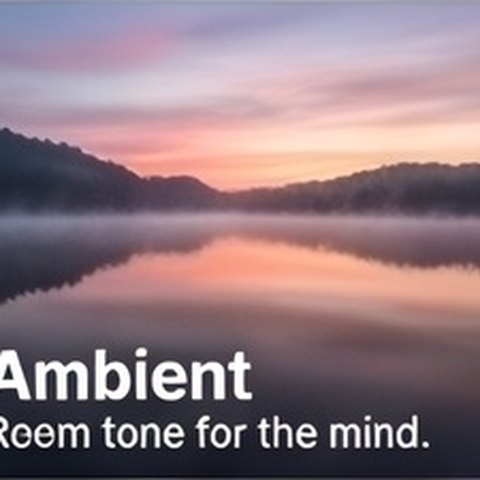
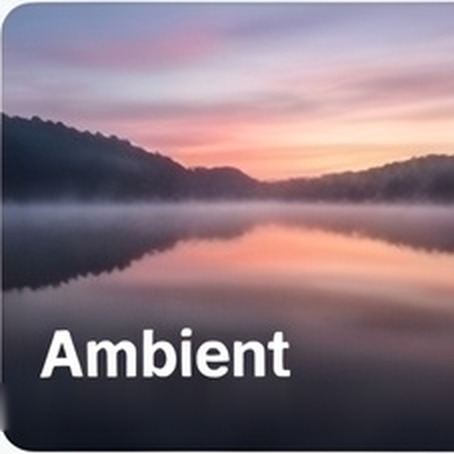
kitaak.com: Ambient hero card; demo: welcome popup redesign, Corporate Music Club points/cards/comments, demo disclaimer text, encrypted identity, Salt Rooms cover
Claude-Session: https://claude.ai/code/session_01AxvuW8LmUui2tz4zV2zd9z

diff --git a/kitaak-site/demo/demo.js b/kitaak-site/demo/demo.js
@@ -9,6 +9,7 @@
   const icon = (n, size, stroke) => {
     const sz = size || 22;
     if (n === "play") return '<svg width="' + sz + '" height="' + sz + '" viewBox="0 0 24 24" fill="currentColor" stroke="none"><path d="M8 5.5v13a1 1 0 0 0 1.5.86l10.5-6.5a1 1 0 0 0 0-1.72L9.5 4.64A1 1 0 0 0 8 5.5z"/></svg>';
+    if (n === "thumb") return '<svg width="' + sz + '" height="' + sz + '" viewBox="0 0 24 24" fill="currentColor" stroke="none"><path d="M2 10h4v11H2zM22 11c0-1.1-.9-2-2-2h-5.3l.9-4.3v-.3c0-.4-.2-.8-.4-1.1L14 2 7.6 8.6c-.4.4-.6.9-.6 1.4V19c0 1.1.9 2 2 2h8c.8 0 1.5-.5 1.8-1.2l3-7.1c.1-.2.2-.5.2-.7z"/></svg>';
     if (n === "hangup") return '<svg width="' + sz + '" height="' + sz + '" viewBox="0 0 24 24" fill="currentColor" stroke="none"><path d="M12 9c-1.6 0-3.15.25-4.6.72v3.1c0 .39-.23.74-.56.9-.98.49-1.87 1.12-2.66 1.85-.18.18-.43.28-.7.28-.28 0-.53-.11-.71-.29L.29 13.08C.11 12.9 0 12.65 0 12.38c0-.28.11-.53.29-.71C3.34 8.78 7.46 7 12 7s8.66 1.78 11.71 4.67c.18.18.29.43.29.71 0 .27-.11.52-.29.7l-2.48 2.48c-.18.18-.43.29-.71.29-.27 0-.52-.11-.7-.28-.79-.74-1.69-1.36-2.67-1.85-.33-.16-.56-.5-.56-.9v-3.1C15.15 9.25 13.6 9 12 9z"/></svg>';
     if (n === "pause") return '<svg width="' + sz + '" height="' + sz + '" viewBox="0 0 24 24" fill="currentColor" stroke="none"><rect x="6" y="5" width="4" height="14" rx="1"/><rect x="14" y="5" width="4" height="14" rx="1"/></svg>';
     return '<svg width="' + sz + '" height="' + sz + '" viewBox="0 0 24 24" fill="none" stroke="currentColor" stroke-width="' + (stroke || 2) + '" stroke-linecap="round" stroke-linejoin="round"><path d="' + (IC[n] || "") + '"/></svg>';
@@ -27,7 +28,7 @@
 
   // ---------------- state (in memory only) ----------------
   const S = {
-    me: Object.assign({}, D.me, { status: "online", statusLine: "", dob: "", state: "", country: D.company.country || "", pub: { dob: false, location: true } }),
+    me: Object.assign({}, D.me, { status: "online", statusLine: "", dob: "1991-04-12", state: "", country: D.company.country || "", pub: { dob: false, location: true } }),
     people: D.people.map((p) => Object.assign({}, p)),
     rooms: [], contacts: new Set(D.people.map((p) => p.id)), blocked: new Set(),
     unread: {}, typing: {}, started: 0, theme: "kitaakblue",
@@ -57,6 +58,10 @@
   S.downloads = new Set(TRACK_IDS.filter((_, i) => i % 31 === 7).slice(0, 3)); S.recent = TRACK_IDS.filter((_, i) => i % 17 === 5).slice(0, 6);
   S.myPlaylists = [{ id: "pl-mine-1", name: "Bergen Boarding Mix", description: "Made by you — for the inaugural flight.", cover: D.music.playlists[0].cover, trackIds: TRACK_IDS.filter((_, i) => i % 13 === 2).slice(0, 8) }];
   D.music.playlists.forEach((p, i) => { S.points[p.id] = 3 + ((i * 7) % 11); S.comments[p.id] = []; });
+  const POINTS_PER_MONTH = 11; S.pointsLeft = POINTS_PER_MONTH;
+  function encMask(v) { const s = String(v || ""); let x = 0; for (let i = 0; i < s.length; i++) x = (x * 31 + s.charCodeAt(i)) >>> 0; const A = "0123456789abcdef"; let o = ""; for (let i = 0; i < Math.max(12, Math.min(28, s.length + 6)); i++) { x = (x * 1103515245 + 12345) >>> 0; o += A[(x >>> 16) & 15]; if (i % 4 === 3) o += " "; } return o.trim(); }
+  let centerT = null;
+  function centerPop(msg) { const old = $(".center-pop"); if (old) old.remove(); const el = h('<div class="center-pop">' + icon("thumb", 22) + '<div>' + esc(msg) + "</div></div>"); document.body.appendChild(el); clearTimeout(centerT); centerT = setTimeout(() => { el.classList.add("out"); setTimeout(() => el.remove(), 350); }, 2200); }
   const favsOf = (pid) => { let x = 0; for (const c of pid) x = (x * 31 + c.charCodeAt(0)) % 9973; const n = 2 + (x % 4); return Array.from({ length: n }, (_, k) => tracksById[TRACK_IDS[(x * (k + 3) + k * 17) % TRACK_IDS.length]]); };
 
   // ---------------- UI helpers ----------------
@@ -385,17 +390,18 @@
     let body = "";
     if (tab === "playlists") {
       const ranked = D.music.playlists.slice().sort((a, b) => S.points[b.id] - S.points[a.id]);
-      body = '<div class="eyebrow" style="margin-bottom:8px">Shared playlists — ranked by points</div><div class="cm-grid">' + ranked.map((p, i) => { const owner = S.people[(i * 5) % S.people.length]; return '<div class="panel cm-card"><div style="display:flex;gap:12px"><img src="' + esc(cov(p.cover)) + '" style="width:84px;height:84px;border-radius:12px;object-fit:cover" alt=""><div style="min-width:0;flex:1"><div class="eyebrow">#' + (i + 1) + '</div><div class="sr-title" style="font-size:16px">' + esc(p.name) + '</div><div class="sr-desc">' + esc(p.description) + '</div><div class="muted" style="font-size:12px;margin-top:4px">shared by ' + esc(owner.name) + " · " + p.trackIds.length + " tracks</div></div></div><div style=\"display:flex;gap:8px;align-items:center;margin-top:10px;flex-wrap:wrap\"><button class=\"btn sm primary\" data-pt=\"" + esc(p.id) + '">' + icon("heart", 14) + ' Give a point</button><span class="chip">' + S.points[p.id] + ' points</span><button class="btn sm" data-open-pl="' + esc(p.id) + '">' + icon("play", 14) + ' Open</button><button class="btn sm ghost" data-cm="' + esc(p.id) + '">' + icon("chat", 14) + " Comment (" + (S.comments[p.id] || []).length + ")</button></div>" + ((S.comments[p.id] || []).length ? '<div style="margin-top:8px;font-size:13px">' + S.comments[p.id].map((x) => "<div><b>" + esc(x.who) + ":</b> " + esc(x.text) + "</div>").join("") + "</div>" : "") + "</div>"; }).join("") + "</div>";
+      body = '<div class="eyebrow" style="margin-bottom:8px">Shared playlists — ranked by points · <span id="ptLeft">' + S.pointsLeft + ' of ' + POINTS_PER_MONTH + ' points left this month</span></div><div class="cm-grid">' + ranked.map((p, i) => { const owner = S.people[(i * 5) % S.people.length]; const n = (S.comments[p.id] || []).length; return '<div class="panel cm-card"><div style="display:flex;gap:12px"><img src="' + esc(cov(p.cover)) + '" style="width:84px;height:84px;border-radius:12px;object-fit:cover" alt=""><div style="min-width:0;flex:1"><div class="eyebrow">#' + (i + 1) + '</div><div class="sr-title" style="font-size:16px">' + esc(p.name) + '</div><div class="sr-desc">' + esc(p.description) + '</div><div class="muted" style="font-size:12px;margin-top:4px">shared by ' + esc(owner.name) + " · " + p.trackIds.length + ' tracks</div></div></div><div class="cm-foot"><button class="btn sm" data-open-pl="' + esc(p.id) + '">' + icon("play", 14) + ' Open</button><button class="btn sm ghost" data-cm="' + esc(p.id) + '">' + icon("chat", 14) + " Comment (" + n + ')</button><button class="pt-pill" data-pt="' + esc(p.id) + '" title="Give a point"><span class="n">' + S.points[p.id] + "</span>" + icon("thumb", 15) + "</button></div></div>"; }).join("") + "</div>";
     } else if (tab === "music") {
       body = '<input class="input" id="cmq" placeholder="Search people, songs, artists, albums…" style="max-width:420px;margin-bottom:14px"><div class="cm-grid" id="cmPeople"></div>';
     } else {
       body = '<div class="stack" style="max-width:760px">' + D.announcements.map((a) => '<div class="panel"><div class="eyebrow">' + esc(nameOf(a.fromId)) + " · " + a.daysAgo + ' days ago</div><div class="sr-title" style="font-size:17px;margin:4px 0">' + esc(a.title) + '</div><div class="muted" style="font-size:14px">' + esc(a.body) + "</div></div>").join("") + '<div class="panel"><div class="sr-title">Write a post</div><textarea class="input" id="blogIn" rows="3" placeholder="Share news with the company…"></textarea><div style="margin-top:8px"><button class="btn sm primary" id="blogPost">Post</button></div></div></div>';
     }
-    main.innerHTML = '<div class="page-pad page-wide"><div class="eyebrow">' + esc(c.name) + '</div><h1 class="display" style="font-size:32px;margin:0 0 6px">Corporate Music</h1><p class="muted" style="margin:0">Share playlists, songs and albums with your colleagues, comment on each other\'s picks, and give points — the most-pointed playlists rise to the top.</p><div style="display:flex;gap:8px;flex-wrap:wrap;margin-top:8px"><span class="chip">' + PLAN_NAME + '</span><span class="chip">workplace music: Kitaak Music Library</span><a class="chip" href="#/company">' + icon("briefcase", 13) + " Company profile</a></div>" + tabs + body + "</div>";
+    main.innerHTML = '<div class="page-pad page-wide"><div class="eyebrow">' + esc(c.name) + '</div><h1 class="display" style="font-size:32px;margin:0 0 6px">Corporate Music Club</h1><p class="muted" style="margin:0">Share playlists, songs and albums with your colleagues, comment on each other\'s picks, and give points — the most-pointed playlists rise to the top.</p><div style="display:flex;gap:8px;flex-wrap:wrap;margin-top:8px"><a class="chip" href="#/company">' + icon("briefcase", 13) + " Company profile</a></div>" + tabs + body + "</div>";
     $$("[data-tab]").forEach((b) => (b.onclick = () => (location.hash = "#/company-music/" + b.dataset.tab)));
-    $$("[data-pt]").forEach((b) => (b.onclick = () => { S.points[b.dataset.pt]++; toast("Point given (demo)"); renderCompanyMusic("playlists"); }));
+    $$("[data-pt]").forEach((b) => (b.onclick = () => { if (S.pointsLeft <= 0) { centerPop("0 out of " + POINTS_PER_MONTH + " points left for this month — your points renew next month."); return; } S.pointsLeft--; S.points[b.dataset.pt]++; renderCompanyMusic("playlists"); centerPop(S.pointsLeft + " out of " + POINTS_PER_MONTH + " points left for this month"); }));
     $$("[data-open-pl]").forEach((b) => (b.onclick = () => (location.hash = "#/music/playlist/" + encodeURIComponent(b.dataset.openPl))));
-    $$("[data-cm]").forEach((b) => (b.onclick = () => { const id = b.dataset.cm; const m = modal("Comment on " + playlist(id).name, '<textarea class="input" id="cmText" rows="3" placeholder="Say something nice about this playlist"></textarea>', [{ label: "Cancel" }, { label: "Post comment", cls: "primary", onClick: () => { const t = $("#cmText").value.trim(); if (!t) return false; (S.comments[id] = S.comments[id] || []).push({ who: S.me.name, text: t }); renderCompanyMusic("playlists"); } }]); }));
+    $$("[data-cm]").forEach((b) => (b.onclick = () => { const id = b.dataset.cm; const list = () => { const cs = S.comments[id] || []; return cs.length ? '<div class="cm-list">' + cs.map((x) => '<div class="cm-item"><b>' + esc(x.who) + "</b> " + esc(x.text) + "</div>").join("") + "</div>" : '<div class="muted" style="font-size:13px;margin-bottom:8px">No comments yet — be the first.</div>'; };
+      const m = modal("Comments · " + playlist(id).name, '<div id="cmList">' + list() + '</div><textarea class="input" id="cmText" rows="3" placeholder="Say something nice about this playlist"></textarea>', [{ label: "Close" }, { label: "Post comment", cls: "primary", onClick: () => { const t = $("#cmText").value.trim(); if (!t) return false; (S.comments[id] = S.comments[id] || []).push({ who: S.me.name, text: t }); $("#cmList").innerHTML = list(); $("#cmText").value = ""; const btn = $('[data-cm="' + id + '"]'); if (btn) btn.innerHTML = icon("chat", 14) + " Comment (" + S.comments[id].length + ")"; return false; } }], { sticky: true }); }));
     if (tab === "music") {
       const paint = () => { const q = ($("#cmq").value || "").trim().toLowerCase(); const ppl = [S.me].concat(S.people).map((p) => ({ p, favs: favsOf(p.id) })).filter((x) => !q || x.p.name.toLowerCase().includes(q) || x.favs.some((t) => (t.title + " " + artist(t.artistId).name + " " + (album(t.albumId) || {}).title).toLowerCase().includes(q))); $("#cmPeople").innerHTML = ppl.map((x) => '<div class="panel cm-card"><div style="display:flex;gap:10px;align-items:center">' + avatar(x.p, 30, true) + '<div style="min-width:0"><div class="sr-title">' + esc(x.p.name) + (x.p.id === "allison" ? " (you)" : "") + '</div><div class="sr-desc">' + x.favs.length + " shared song" + (x.favs.length === 1 ? "" : "s") + '</div></div></div><div class="track-list" style="margin-top:8px">' + x.favs.slice(0, 5).map((t, i) => trackRow(t, i)).join("") + "</div></div>").join("") || '<div class="muted" style="text-align:center;padding:24px">No matches for “' + esc(q) + '”.</div>'; $$("[data-tr]").forEach((b) => (b.onclick = (e) => { if (e.target.closest("[data-shelf]")) return; const t = tracksById[b.dataset.tr]; noMusicPopup(t.title + " — " + artist(t.artistId).name); })); $$("[data-shelf]").forEach((b) => (b.onclick = (e) => { e.stopPropagation(); const id = b.dataset.shelf; if (S.shelf.has(id)) S.shelf.delete(id); else S.shelf.add(id); b.innerHTML = icon(S.shelf.has(id) ? "check" : "shelf", 16); toast(S.shelf.has(id) ? "Saved to your shelf (demo)" : "Removed from your shelf"); })); };
       $("#cmq").oninput = paint; paint();
@@ -511,13 +517,14 @@
     main.innerHTML = '<div class="page-pad page-wide settings-compact" style="max-width:720px"><div class="eyebrow">Profile</div><div style="display:flex;gap:16px;align-items:center;margin:6px 0 18px">' + avatar(me, 72, true) + '<div style="flex:1;min-width:0"><input class="input display" id="nameIn" value="' + esc(me.name) + '" style="font-size:24px;font-weight:700;max-width:420px"><div class="muted mono" style="font-size:12px;margin-top:4px">' + esc(me.oNumber) + " · " + esc(D.company.name) + " · " + PLAN_NAME + (me.statusLine ? " · " + esc(me.statusLine) : "") + '</div></div><button class="btn sm" id="avatarBtn">Change photo</button></div>' +
       '<div class="panel appearance"><h3>Appearance</h3><div class="panel-sub">Pick a theme — Paper for day, Wax/Noir for night, plus Sepia and Mono.</div>' + themeRail() + "</div>" +
       '<div class="panel"><h3>Account</h3>' + row("Membership", PLAN_NAME, '<a class="btn sm" href="#/membership">Manage</a>') + row("Music Club", S.settings.musicClub ? "Active — streaming & linked catalog on." : "Paused — chat stays active, music features off.", '<button class="btn sm" id="mcBtn">' + (S.settings.musicClub ? "Deactivate" : "Reactivate") + "</button>") + row("Auto‑Update", S.settings.autoUpdate ? "App updates install automatically." : "Off — new versions arrive as a chat notification instead.", sw(S.settings.autoUpdate, 'data-s="autoUpdate"')) + row("Settings & Privacy", "Notifications, privacy, listening room", '<a class="btn sm" href="#/settings">Open</a>') + row("Cancel Membership", "End your paid membership. Stays active until the end of the current period.", '<button class="btn sm" id="cancelMem">Cancel</button>') + "</div>" +
-      '<div class="panel"><h3>Identity</h3><div class="panel-sub">Private unless you check <b>Public\'s</b> — then it shows on your profile popup.</div>' +
-        '<div class="setting-row" style="flex-wrap:wrap"><div class="sr-main" style="min-width:160px"><div class="sr-title">Date Of Birth</div><input class="input" type="date" id="dobIn" value="' + esc(me.dob) + '" style="max-width:200px;margin-top:4px"></div><label class="chip"><input type="checkbox" data-pub="dob" ' + (me.pub.dob ? "checked" : "") + "> Public</label></div>" +
-        '<div class="setting-row" style="flex-wrap:wrap"><div class="sr-main" style="min-width:160px"><div class="sr-title">Location</div><div class="sr-desc">City, state & country</div><div style="display:flex;gap:6px;flex-wrap:wrap;margin-top:4px"><input class="input" placeholder="City" data-f="city" value="' + esc(me.city || "") + '" style="max-width:160px"><input class="input" placeholder="State" data-f="state" value="' + esc(me.state || "") + '" style="max-width:120px"><input class="input" placeholder="Country" data-f="country" value="' + esc(me.country || "") + '" style="max-width:160px"></div></div><label class="chip"><input type="checkbox" data-pub="location" ' + (me.pub.location ? "checked" : "") + "> Public</label></div>" +
+      '<div class="panel" id="identityPanel"><h3>Identity ' + icon("lock", 15) + '</h3><div class="panel-sub">Private unless you check <b>Public\'s</b> — then it shows on your profile popup.</div><div class="enc-note">' + icon("lock", 14) + ' <b>Encrypted.</b> Your identity details are stored end-to-end encrypted and shown masked on this page. <button class="linkbtn" id="encToggle">' + (S.encReveal ? "Hide again" : "Reveal to edit") + "</button></div>" +
+        '<div class="setting-row" style="flex-wrap:wrap"><div class="sr-main" style="min-width:160px"><div class="sr-title">Date Of Birth</div>' + (S.encReveal ? '<input class="input" type="date" id="dobIn" value="' + esc(me.dob) + '" style="max-width:200px;margin-top:4px">' : '<div class="enc-val">' + encMask(me.dob) + '</div>') + '</div><label class="chip"><input type="checkbox" data-pub="dob" ' + (me.pub.dob ? "checked" : "") + "> Public</label></div>" +
+        '<div class="setting-row" style="flex-wrap:wrap"><div class="sr-main" style="min-width:160px"><div class="sr-title">Location</div><div class="sr-desc">City, state & country</div><div style="display:flex;gap:6px;flex-wrap:wrap;margin-top:4px">' + (S.encReveal ? '<input class="input" placeholder="City" data-f="city" value="' + esc(me.city || "") + '" style="max-width:160px"><input class="input" placeholder="State" data-f="state" value="' + esc(me.state || "") + '" style="max-width:120px"><input class="input" placeholder="Country" data-f="country" value="' + esc(me.country || "") + '" style="max-width:160px">' : '<div class="enc-val">' + encMask((me.city || "") + " " + (me.state || "") + " " + (me.country || "")) + '</div>') + '</div></div><label class="chip"><input type="checkbox" data-pub="location" ' + (me.pub.location ? "checked" : "") + "> Public</label></div>" +
         row("Title & department", "Shown on your profile popup and in the corporate directory.", '<span style="display:flex;gap:6px;flex-wrap:wrap"><input class="input" data-f="title" value="' + esc(me.title || "") + '" style="max-width:200px"><input class="input" data-f="department" value="' + esc(me.department || "") + '" style="max-width:180px"></span>', 'class="sr-wrap" style="flex-wrap:wrap"') +
-        row("Bio", "One line about you.", '<input class="input" data-f="bio" value="' + esc(me.bio || "") + '" style="max-width:360px">', 'class="sr-wrap" style="flex-wrap:wrap"') +
+        row("Bio", "One line about you.", S.encReveal ? '<input class="input" data-f="bio" value="' + esc(me.bio || "") + '" style="max-width:360px">' : '<div class="enc-val">' + encMask(me.bio || "") + "</div>", 'class="sr-wrap" style="flex-wrap:wrap"') +
         '<div style="margin-top:10px"><button class="btn primary sm" id="saveProf">Save profile</button></div></div>' +
       '<div class="panel"><h3 style="color:var(--danger)">Sensitive Functions</h3>' + row("Deactivate Account", "Temporarily hide your account. Log back in any time to reactivate — nothing is deleted.", '<button class="btn sm" id="deactBtn">Deactivate</button>') + row("Delete Profile", "Permanently delete your profile and data. This can't be undone.", '<button class="btn danger sm" id="delProfile2">Delete</button>') + "</div></div>";
+    $("#encToggle").onclick = () => { S.encReveal = !S.encReveal; renderProfile(); toast(S.encReveal ? "Identity details decrypted for this session (demo)" : "Identity details masked again"); };
     wireThemes(main);
     $$("[data-s]", main).forEach((el) => wireSwitch(el, (on) => { S.settings[el.dataset.s] = on; renderProfile(); }));
     $("#mcBtn").onclick = () => { S.settings.musicClub = !S.settings.musicClub; renderProfile(); toast(S.settings.musicClub ? "Music Club reactivated" : "Music Club paused — chat stays active"); };
@@ -537,13 +544,18 @@
 
   // ---------------- boot ----------------
   function welcome() {
-    const w = h('<div class="welcome"><div class="box"><div class="eyebrow">Kitaak · web demo</div><h1>Welcome, you are signed in as ' + esc(S.me.name) + '.</h1><p>This is a Demo corporate account at <b>' + esc(D.company.name) + '</b> with ' + S.people.length + ' colleagues. Everything works — chat, groups, contacts, the music library, settings, your profile — and <b>nothing you do is saved</b>.</p><ul><li>Test the demo account: send a message; check out the music library design, the corporate music page, the group profiles, the settings…</li><li>Music begins when you enter; the library presents the demo catalog and the paid user version shall carry songs based on membership coverage.</li><li>The Digital Demonstrator will call you a few seconds after you enter — answer to hear the music duck and readjust to normal volume after the message is over.</li></ul><button class="btn primary" id="enterBtn" style="width:100%;justify-content:center">Enter the Demo</button><div class="links"><button class="btn sm ghost" id="disclaimerBtn">Disclaimer &amp; Copy Rights</button></div><p class="disclaimer">By entering you accept the demo disclaimer: nothing is saved, the company and people are fictional, and the paid application may differ.</p></div></div>');
+    const card = (cls, ic, title, text) => '<div class="wcard"><span class="wic ' + cls + '">' + icon(ic, 22) + '</span><b>' + title + "</b><p>" + text + "</p></div>";
+    const w = h('<div class="welcome"><div class="box"><div class="wtop"><img class="wlogo" src="demo/icon.svg" alt=""><div class="eyebrow">Kitaak · web demo</div><h1>Welcome, you are signed in as ' + esc(S.me.name) + '.</h1><div class="wcorp">' + icon("briefcase", 15) + ' Corporate Account: ' + esc(D.company.name) + ' (' + S.people.length + ' Colleagues)</div><p>This is a corporate account, and <b>everything works</b>, from chat to settings, the music library, and your profile. Just remember: <b>nothing you do is saved</b>.</p><div class="wcards">' +
+      card("c1", "chat", "Test the demo", "Send a message, explore the full music library, view corporate pages, and adjust settings.") +
+      card("c2", "music", "Authentic experience", "Music starts upon entry. Visit the Music Library page and check out the design.") +
+      card("c3", "phone", "Live interaction", "Receive a simulated call shortly after entering. Hear our advanced music ducking and learn about Live Comm.") +
+      '</div><button class="btn primary" id="enterBtn" style="width:100%;justify-content:center">Enter the Demo</button><div class="links"><button class="linkbtn" id="disclaimerBtn">Disclaimer &amp; Copy Rights</button></div></div><div class="wfoot"><p class="disclaimer">By entering, you accept that this is a fictional demo; all data is temporary, and no information is saved. Company, people, and roles are for display purposes only. Final product may vary.</p><p class="copy">© ' + new Date().getFullYear() + ' Kitaak. All Rights Reserved.</p></div></div></div>');
     $("#disclaimerBtn", w).onclick = () => disclaimerModal();
     document.body.appendChild(w);
     $("#enterBtn", w).onclick = () => { w.remove(); Player.start(); S.started = NOW(); setTimeout(() => Call.incoming(), 7400); toast("Background music on — the Digital Demonstrator will call you in a few seconds."); };
   }
   function disclaimerModal() {
-    modal(window.KITAAK_DISCLAIMER_TITLE || "Disclaimer & Copy Rights", '<div class="disc-body">' + (window.KITAAK_DISCLAIMER_HTML || "") + "</div>", [{ label: "Close", cls: "primary" }], { sticky: false });
+    modal(window.KITAAK_DISCLAIMER_TITLE || "Disclaimer & Copy Rights", '<div class="disc-body">' + (window.KITAAK_DISCLAIMER_HTML_DEMO || window.KITAAK_DISCLAIMER_HTML || "") + "</div>", [{ label: "Close", cls: "primary" }], { sticky: false });
   }
   $("#resetBtn").onclick = () => location.reload();
   $("#bannerWho").textContent = "Signed in as " + S.me.name + " · " + D.company.name;

diff --git a/kitaak-site/index.html b/kitaak-site/index.html
@@ -1,6 +1,6 @@
 <!doctype html><html lang="en"><head><meta charset="utf-8"><meta name="viewport" content="width=device-width,initial-scale=1"><link rel="preconnect" href="https://fonts.googleapis.com"><link rel="preconnect" href="https://fonts.gstatic.com" crossorigin><link href="https://fonts.googleapis.com/css2?family=Mona+Sans:wdth,wght@75..125,200..900&family=Martian+Mono:wght@400;700&family=Bricolage+Grotesque:opsz,wght@12..96,700..800&display=swap" rel="stylesheet"><link rel="icon" type="image/svg+xml" href="demo/icon.svg"><link rel="stylesheet" href="assets/site.css"><title>Kitaak — Music Meets Communication</title><meta name="description" content="Kitaak brings music and communication together in one intelligent experience for modern workplaces."></head><body>
 <header class="site-head"><div class="wrap"><a class="brand" href="index.html"><img src="demo/icon.svg" alt=""> kitaak</a><button class="menu-btn" aria-label="Menu">☰</button><nav class="nav"><a href="index.html" class="on">Home</a><a href="application.html" >Application</a><a href="about.html" >About Us</a><a href="contact.html" >Contact</a></nav></div></header>
-<section class="hero"><div class="wrap grid"><div><div class="eyebrow">Kitaak · music + communication</div><h1>Music Meets Communication.</h1><p class="lead"><b>A better atmosphere for the way your team works.</b></p><p class="lead">Kitaak brings music and communication together in one intelligent experience. Enjoy music while staying connected with your colleagues — without letting music get in the way of important conversations.</p><p class="lead">When communication begins, the music adapts. When the conversation ends, the music returns.</p><div class="cta"><a class="btn primary" href="application.html">See the Application</a><a class="btn" href="contact.html#start">Contact us</a></div><p class="muted" style="margin-top:14px;font-size:14px">Coming soon — the first version is expected before the end of 2027.</p></div><div class="hero-art"><div class="gcard"><img src="assets/img/genre-instrumental.jpg" alt=""><div class="lab"><div><small>Genre</small><b>Instrumental</b></div><div class="eq"><i></i><i></i><i></i><i></i><i></i></div></div></div><div class="gcard"><img src="assets/img/genre-classics.jpg" alt=""><div class="lab"><div><small>Genre</small><b>Classics</b></div><div class="eq"><i></i><i></i><i></i><i></i><i></i></div></div></div><div class="gcard"><img src="assets/img/genre-workplace-beats.jpg" alt=""><div class="lab"><div><small>Genre</small><b>WorkPlace Beats</b></div><div class="eq"><i></i><i></i><i></i><i></i><i></i></div></div></div><div class="gcard"><img src="assets/img/genre-electronic.jpg" alt=""><div class="lab"><div><small>Genre</small><b>Electronic</b></div><div class="eq"><i></i><i></i><i></i><i></i><i></i></div></div></div><div class="wave"></div></div></div></section>
+<section class="hero"><div class="wrap grid"><div><div class="eyebrow">Kitaak · music + communication</div><h1>Music Meets Communication.</h1><p class="lead"><b>A better atmosphere for the way your team works.</b></p><p class="lead">Kitaak brings music and communication together in one intelligent experience. Enjoy music while staying connected with your colleagues — without letting music get in the way of important conversations.</p><p class="lead">When communication begins, the music adapts. When the conversation ends, the music returns.</p><div class="cta"><a class="btn primary" href="application.html">See the Application</a><a class="btn" href="contact.html#start">Contact us</a></div><p class="muted" style="margin-top:14px;font-size:14px">Coming soon — the first version is expected before the end of 2027.</p></div><div class="hero-art"><div class="gcard"><img src="assets/img/genre-instrumental.jpg" alt=""><div class="lab"><div><small>Genre</small><b>Instrumental</b></div><div class="eq"><i></i><i></i><i></i><i></i><i></i></div></div></div><div class="gcard"><img src="assets/img/genre-classics.jpg" alt=""><div class="lab"><div><small>Genre</small><b>Classics</b></div><div class="eq"><i></i><i></i><i></i><i></i><i></i></div></div></div><div class="gcard"><img src="assets/img/genre-workplace-beats.jpg" alt=""><div class="lab"><div><small>Genre</small><b>WorkPlace Beats</b></div><div class="eq"><i></i><i></i><i></i><i></i><i></i></div></div></div><div class="gcard"><img src="assets/img/genre-electronic.jpg" alt=""><div class="lab"><div><small>Genre</small><b>Electronic</b></div><div class="eq"><i></i><i></i><i></i><i></i><i></i></div></div></div><div class="gcard"><img src="assets/img/genre-ambient.jpg" alt=""><div class="lab"><div><small>Genre</small><b>Ambient</b></div><div class="eq"><i></i><i></i><i></i><i></i><i></i></div></div></div><div class="wave"></div></div></div></section>
 <section><div class="wrap"><div class="eyebrow">How Kitaak works</div><h2>Music When You Want It. Communication When You Need It.</h2><p class="lead">Kitaak is designed to create a seamless audio experience for modern workplaces.</p><div class="cards"><div class="card"><div class="ic">🎵</div><h3>Enjoy Music</h3><p class="muted">Listen to music while you work and create a more enjoyable atmosphere throughout the day.</p></div><div class="card"><div class="ic">💬</div><h3>Stay Connected</h3><p class="muted">Communicate with colleagues through Kitaak's communication features — chat, groups, voice and video.</p></div><div class="card"><div class="ic">🔊</div><h3>Intelligent Audio Priority</h3><p class="muted">When a call or voice communication begins, Kitaak automatically lowers the music so you can clearly hear the conversation.</p></div><div class="card"><div class="ic">🎶</div><h3>Automatic Music Adjustment</h3><p class="muted">When the conversation ends, the music smoothly returns to its preset level — without requiring you to constantly adjust the volume. Kitaak adjusts the music not only around conversations inside Kitaak but also around many other PC and mobile alerts, so nothing important gets drowned out.</p></div></div></div></section>
 <section><div class="wrap"><div class="eyebrow">Music at work</div><h2>The right music, at the right time.</h2><div class="cards"><div class="card"><div class="ic">📈</div><h3>Productivity</h3><p class="muted">Playing the right music while working can lead to increased productivity.</p></div><div class="card"><div class="ic">😊</div><h3>Work satisfaction</h3><p class="muted">Utilizing appropriate music at the right time and the right place can add to work satisfaction.</p></div><div class="card"><div class="ic">🎧</div><h3>Every listening habit</h3><p class="muted">People have different music listening habits: some listen for many hours during the day and some listen to a track or two on occasion. Either habit has different gains for the listener and can make the workplace more enjoyable and improve productivity.</p></div></div></div></section>
 <section class="alt"><div class="wrap split"><div><div class="eyebrow">The Kitaak experience</div><h2>Your Workplace. Your Conversations. Your Music.</h2><p>Workplaces are full of conversations, ideas, and moments that require attention. At the same time, the right music can help create a more enjoyable and welcoming environment.</p><p>Kitaak is built to help balance both. Instead of forcing users to constantly pause, stop, or manually adjust their music, Kitaak is designed to intelligently adapt the audio experience around communication.</p><p class="muted">The result is simple:</p><div class="stack3"><span>Less interruption.</span><span>More connection.</span><span>Music that works around your conversations.</span></div></div><div class="shot"><img src="assets/img/shot-instant-speech.png" alt="A group with an instant speech session active in Kitaak"></div></div></section>

diff --git a/kitaak-site/assets/disclaimer.js b/kitaak-site/assets/disclaimer.js
@@ -1,11 +1,14 @@
 window.KITAAK_DISCLAIMER_TITLE="Disclaimer & Copy Rights";
-window.KITAAK_DISCLAIMER_HTML=(function(){var y=new Date().getFullYear();return ''+
-'<h4>Release timing</h4><p>Kitaak is under development. The first version is expected before the end of 2027. The Windows desktop version and the web version are the most likely to be available at the first release; mobile versions and versions for other operating systems are planned to follow later. Dates are targets, not commitments, and may move.</p>'+
+window.KITAAK_DISCLAIMER_BUILD=function(demo){var y=new Date().getFullYear();return ''+
+'<h4>Release timing</h4><p>Kitaak is under development. '+(demo?'':'The first version is expected before the end of 2027. ')+'The Windows desktop version and the web version are the most likely to be available at the first release; mobile versions and versions for other operating systems are planned to follow later. Dates are targets, not commitments, and may move.</p>'+
 '<h4>Platforms and app stores</h4><p>Android and iPhone versions are subject to app store review and approval, which is outside our control. Availability in a given country or store is not guaranteed.</p>'+
 '<h4>Music catalog</h4><p>The initial version will carry at least instrumental music. In terms of mainstream music no promises are made: the catalog depends on agreements with music suppliers and rights holders and may differ by membership, territory and time.</p>'+
 '<h4>Memberships and prices</h4><p>Membership names, coverage and prices shown on this site and in the demo are indicative only. They are subject to change and are not guaranteed until presented at the moment of purchase.</p>'+
 '<h4>Functions and capabilities</h4><p>Functions, capabilities, screens and texts described or shown here reflect the current state of development. They may change, be delayed or be removed before or after release.</p>'+
+'<h4>Demo Environment</h4><p>The names, individuals, companies, organizations, conversations, messages, and other information shown in this demonstration are fictional and are provided solely for demonstration and illustrative purposes. Any resemblance to actual persons, companies, organizations, or events is coincidental. This demonstration does not imply any affiliation, endorsement, partnership, employment relationship, or customer relationship with any person or organization depicted.</p>'+
 '<h4>The web demo</h4><p>The demonstrator runs entirely in your browser with a fictional company, fictional people and fictional conversations. Nothing you type, change or delete is stored or sent anywhere. Music playback is limited to one demo track; songs, albums and playlists are catalog entries only. Calls and voice messages are simulated with a pre-recorded message. Any resemblance to real companies, people or conversations is coincidental.</p>'+
 '<h4>Information only</h4><p>This site is provided for information purposes only and does not constitute an offer, a warranty or professional advice. To the extent permitted by law, Kitaak accepts no liability for decisions made in reliance on the content of this site or the demo.</p>'+
 '<h4>Copy rights</h4><p>&copy; '+y+' Kitaak &middot; Kitaak.com. All rights reserved. The texts, graphics, screens, artwork, audio, the Kitaak name, logo and wordmark and the design of this site and of the demo are the property of Kitaak and are protected by copyright and trademark law. They may not be copied, reproduced, published, distributed, modified or used for any commercial purpose without the prior written permission of Kitaak. Third-party names and marks mentioned on this site belong to their respective owners. The demo artwork and audio are licensed for demonstration only and may not be extracted or reused.</p>'+
-'<h4>Contact</h4><p>Questions about this disclaimer or about the use of our content: write to us through the Contact page.</p>';})();
+'<h4>Contact</h4><p>Questions about this disclaimer or about the use of our content: write to us through the Contact page.</p>';};
+window.KITAAK_DISCLAIMER_HTML=window.KITAAK_DISCLAIMER_BUILD(false);
+window.KITAAK_DISCLAIMER_HTML_DEMO=window.KITAAK_DISCLAIMER_BUILD(true);

diff --git a/kitaak-site/demo/demo.css b/kitaak-site/demo/demo.css
@@ -134,3 +134,37 @@ select.input,input.input{font:inherit;font-size:14px;min-height:38px}
 .contact-row .acts .cp-sign .dot{position:absolute;right:3px;bottom:3px;width:7px;height:7px;border-radius:50%;background:var(--ink-3)}
 .contact-row .acts .cp-sign.on .dot{background:var(--green)}
 .genre-grid{grid-template-columns:repeat(auto-fill,minmax(168px,1fr))}
+
+/* welcome popup (card design) */
+.welcome .box{max-width:640px;padding:0;overflow:hidden}
+.welcome .wtop{padding:28px 32px 22px;text-align:center}
+.welcome .wlogo{width:56px;height:56px;display:block;margin:0 auto 8px}
+.welcome .wtop .eyebrow{letter-spacing:.18em}
+.welcome h1{font-size:28px;margin:8px 0 8px;line-height:1.15}
+.welcome .wcorp{display:inline-flex;align-items:center;gap:6px;font-size:14px;color:var(--ink-2);margin-bottom:8px}
+.welcome .wtop>p{margin:0 0 16px;font-size:15px}
+.welcome .wcards{display:grid;grid-template-columns:repeat(3,1fr);gap:12px;margin-bottom:18px;text-align:left}
+.welcome .wcard{border:1px solid var(--line);border-radius:14px;padding:14px 12px;background:var(--panel)}
+.welcome .wcard .wic{width:40px;height:40px;border-radius:10px;display:grid;place-items:center;color:#fff;margin-bottom:10px}
+.welcome .wcard .wic.c1{background:#3f7de8}.welcome .wcard .wic.c2{background:#3aae76}.welcome .wcard .wic.c3{background:#2f6bbf}
+.welcome .wcard b{display:block;font-family:var(--font-mono);font-size:11px;letter-spacing:.06em;text-transform:uppercase;margin-bottom:4px;color:var(--ink)}
+.welcome .wcard p{margin:0;font-size:13px;line-height:1.4;color:var(--ink-2)}
+.welcome .links{justify-content:flex-end;margin-top:8px}
+.linkbtn{border:0;background:none;color:var(--ink-2);text-decoration:underline;cursor:pointer;font:inherit;font-size:13px;padding:0}
+.welcome .wfoot{background:var(--panel-2);border-top:1px solid var(--line-2);padding:14px 32px 16px;text-align:center}
+.welcome .wfoot .disclaimer{margin:0 0 8px;font-size:12px}
+.welcome .wfoot .copy{margin:0;font-size:12px;color:var(--ink-3)}
+@media (max-width:640px){.welcome .wcards{grid-template-columns:1fr}}
+/* corporate music club cards */
+.cm-grid{align-items:start}
+.cm-foot{display:flex;gap:8px;align-items:center;margin-top:12px;flex-wrap:wrap}
+.pt-pill{margin-left:auto;display:inline-flex;align-items:center;gap:6px;background:var(--rust);color:var(--rust-ink);border:0;border-radius:999px;padding:6px 12px 6px 14px;font:inherit;font-weight:700;font-size:13px;cursor:pointer;box-shadow:var(--shadow-1)}
+.pt-pill:hover{filter:brightness(1.08)}.pt-pill svg{display:block}
+.cm-list{max-height:220px;overflow:auto;margin-bottom:10px;display:grid;gap:6px}.cm-item{font-size:13.5px;background:var(--panel-2);border-radius:10px;padding:8px 10px}
+.center-pop{position:fixed;left:50%;top:50%;transform:translate(-50%,-50%);z-index:700;background:var(--panel);color:var(--ink);border:1px solid var(--line);border-radius:18px;padding:18px 24px;display:flex;align-items:center;gap:12px;box-shadow:var(--shadow-3);font-size:15px;font-weight:600;animation:popin .25s ease-out}
+.center-pop svg{color:var(--rust);flex:none}.center-pop.out{opacity:0;transition:opacity .3s}
+@keyframes popin{from{opacity:0;transform:translate(-50%,-46%)}to{opacity:1;transform:translate(-50%,-50%)}}
+/* encrypted identity */
+.enc-note{display:flex;align-items:center;gap:6px;flex-wrap:wrap;font-size:12.5px;color:var(--ink-2);background:var(--panel-2);border:1px dashed var(--line);border-radius:10px;padding:8px 10px;margin:8px 0 4px}
+.enc-note .linkbtn{margin-left:auto;color:var(--rust)}
+.enc-val{font-family:var(--font-mono);font-size:12.5px;letter-spacing:.04em;color:var(--ink-3);background:var(--panel-2);border-radius:8px;padding:6px 10px;margin-top:4px;display:inline-block;user-select:none}

diff --git a/kitaak-site/assets/site.css b/kitaak-site/assets/site.css
@@ -22,9 +22,9 @@ p{margin:0 0 14px}.lead{font-size:19px;color:var(--ink-2);max-width:720px}.muted
 /* hero */
 .hero{padding:72px 0 56px;position:relative;overflow:hidden}
 .hero .grid{display:grid;grid-template-columns:1.15fr .85fr;gap:40px;align-items:center}
-.hero-art{position:relative;height:auto;padding-bottom:92%}
+.hero-art{position:relative;height:auto;padding-bottom:74%}
 .gcard{position:absolute;width:56%;aspect-ratio:1;border-radius:22px;overflow:hidden;background:var(--dark);box-shadow:var(--shadow-2);border:1px solid #ffffff22;display:flex;flex-direction:column;color:#fff}.gcard img{width:100%;height:64%;object-fit:cover;display:block}.gcard .lab{flex:1;display:flex;align-items:center;justify-content:space-between;gap:8px;padding:0 12px;background:linear-gradient(180deg,#1b2532,#232f3e)}.gcard .lab small{display:block;font-family:var(--font-mono);font-size:9.5px;letter-spacing:.14em;text-transform:uppercase;color:#9fb6da;margin-bottom:3px}.gcard .lab b{display:block;font-family:var(--font-display);font-stretch:125%;font-weight:800;font-size:clamp(13px,1.25vw,17px);line-height:1.05;letter-spacing:-.01em}.gcard .eq{display:flex;align-items:flex-end;gap:3px;height:22px;flex:none}.gcard .eq i{display:block;width:4px;border-radius:2px;background:var(--rust);height:40%;animation:eq 1.6s ease-in-out infinite}.gcard .eq i:nth-child(2){height:90%;animation-delay:.2s}.gcard .eq i:nth-child(3){height:60%;animation-delay:.45s}.gcard .eq i:nth-child(4){height:100%;animation-delay:.1s}.gcard .eq i:nth-child(5){height:50%;animation-delay:.6s}@keyframes eq{0%,100%{transform:scaleY(.55)}50%{transform:scaleY(1)}}@media (prefers-reduced-motion:reduce){.gcard .eq i{animation:none}}
-.hero-art .gcard{width:40%}.hero-art .gcard:nth-child(1){left:4%;top:0;transform:rotate(-3deg);z-index:1}.hero-art .gcard:nth-child(2){left:52%;top:4%;transform:rotate(2deg);z-index:2}.hero-art .gcard:nth-child(3){left:12%;top:50%;transform:rotate(2deg);z-index:3}.hero-art .gcard:nth-child(4){left:58%;top:54%;transform:rotate(-2deg);z-index:4}.hero-art::before{content:"";position:absolute;inset:8% -4% 14%;background:radial-gradient(60% 60% at 50% 50%,var(--rust-soft),transparent 70%);opacity:.9;border-radius:50%}
+.hero-art .gcard{width:31%}.hero-art .gcard:nth-child(1){left:0;top:7%;transform:rotate(-3deg);z-index:1}.hero-art .gcard:nth-child(2){left:34.5%;top:0;transform:rotate(2deg);z-index:2}.hero-art .gcard:nth-child(3){left:17%;top:52%;transform:rotate(2deg);z-index:4}.hero-art .gcard:nth-child(4){left:69%;top:6%;transform:rotate(-2deg);z-index:3}.hero-art .gcard:nth-child(5){left:52%;top:50%;transform:rotate(-5deg);z-index:5}.hero-art::before{content:"";position:absolute;inset:8% -4% 14%;background:radial-gradient(60% 60% at 50% 50%,var(--rust-soft),transparent 70%);opacity:.9;border-radius:50%}
 .hero-art .wave{position:absolute;left:-10%;right:-10%;bottom:-30px;height:70px;background:repeating-linear-gradient(90deg,var(--rust) 0 3px,transparent 3px 9px);opacity:.22;mask:linear-gradient(90deg,transparent,#000 20%,#000 80%,transparent);border-radius:40px}
 .cta{display:flex;gap:12px;flex-wrap:wrap;margin-top:22px}
 @media (max-width:820px){.hero .grid{grid-template-columns:1fr}.hero-art{max-width:520px;margin:10px auto 0;width:100%}}
